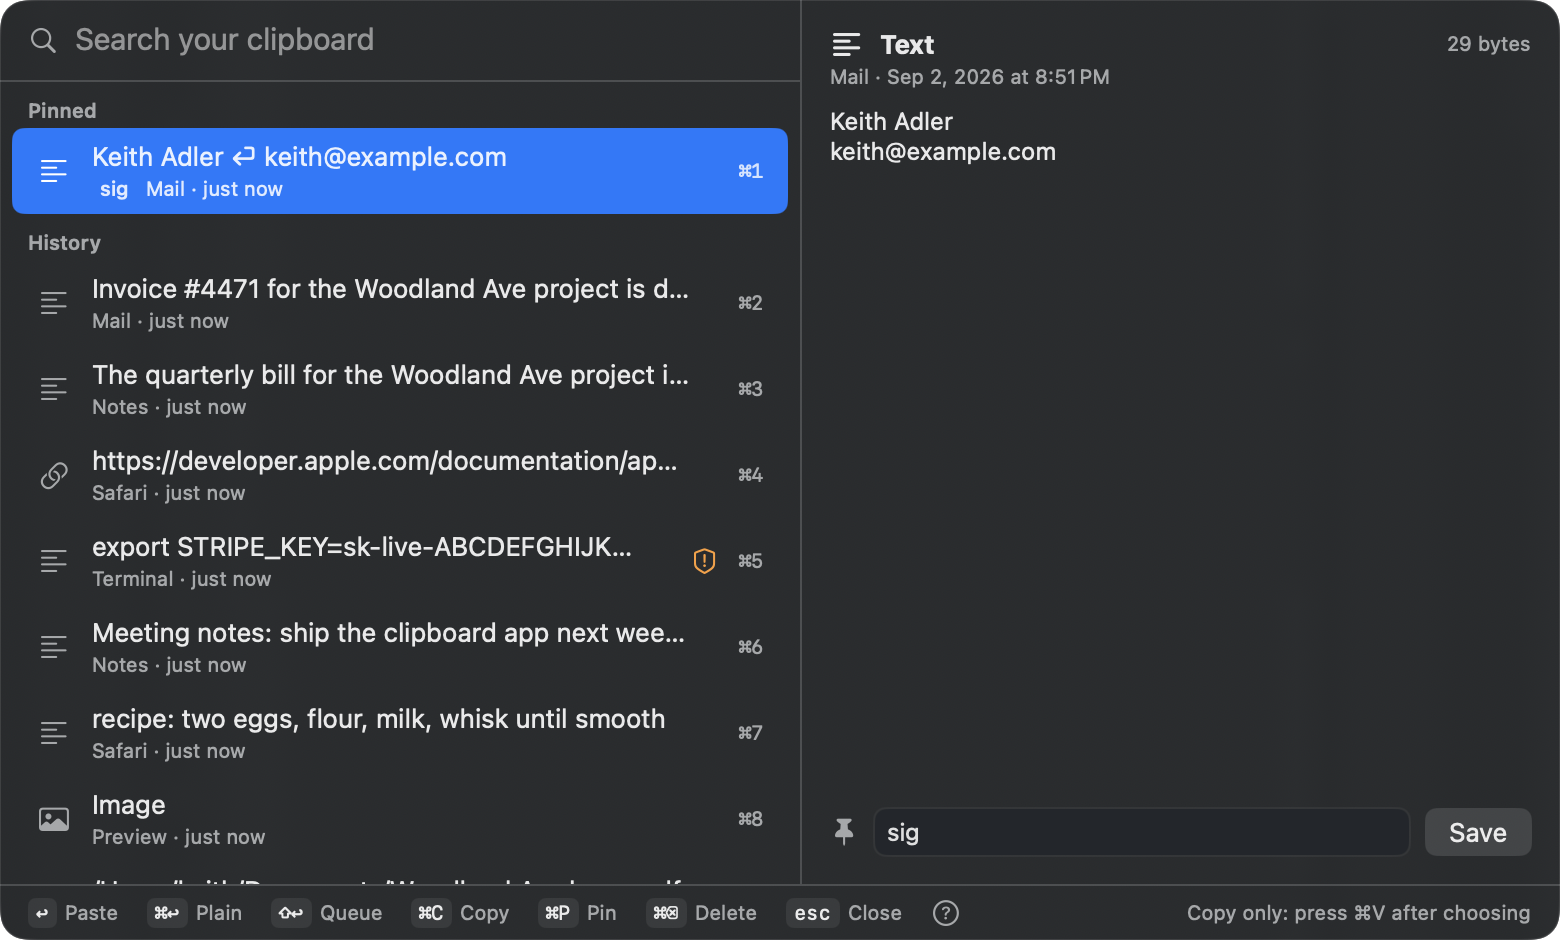
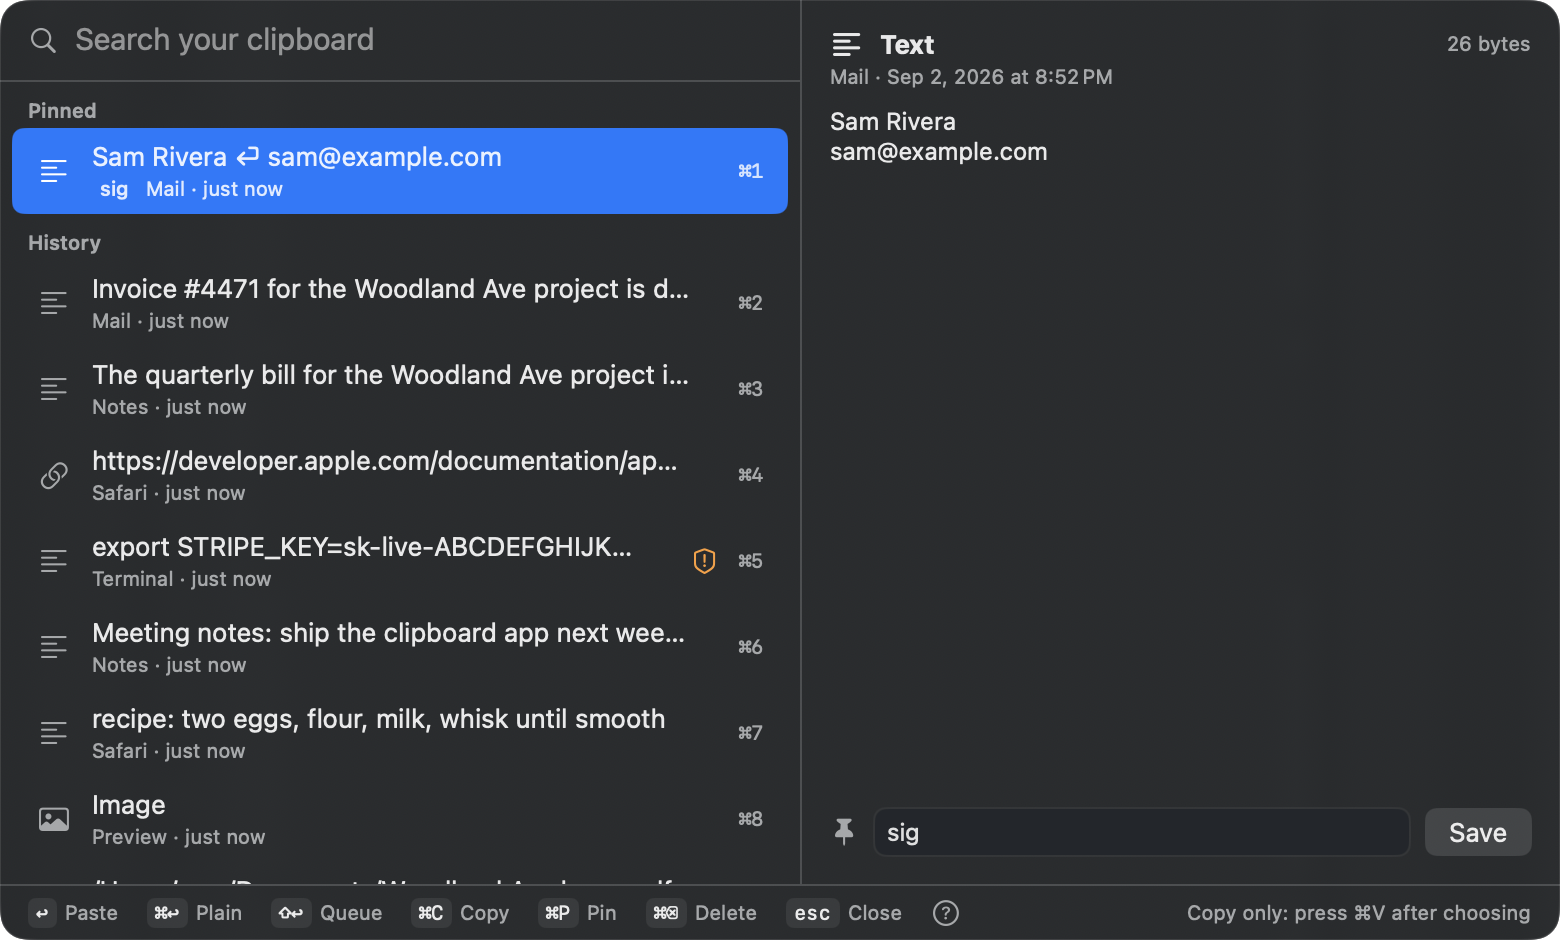
Screenshots: neutral demo persona

Changed region(s): [[0.0615, 0.1543, 0.3385, 0.1851], [0.5231, 0.1234, 0.6769, 0.1851], [0.6769, 0.0617, 0.7077, 0.0926]]

diff --git a/Sources/ClipMac/Screenshots.swift b/Sources/ClipMac/Screenshots.swift
@@ -112,10 +112,10 @@ enum Screenshots {
         func text(_ t: String, app: String = "com.apple.Notes", name: String = "Notes", kind: ItemKind = .text) {
             _ = s.insert(Capture(kind: kind, plain: t, blobData: nil, blobType: nil, sourceBundleID: app, sourceName: name, size: t.utf8.count))
         }
-        text("Keith Adler\nkeith@example.com", app: "com.apple.mail", name: "Mail")
+        text("Sam Rivera\nsam@example.com", app: "com.apple.mail", name: "Mail")
         let sig = s.item(atPosition: 1)!
         s.setPinned(sig.id, true, keyword: "sig")
-        text("/Users/keith/Documents/Woodland Ave lease.pdf", app: "com.apple.finder", name: "Finder", kind: .file)
+        text("/Users/sam/Documents/Woodland Ave lease.pdf", app: "com.apple.finder", name: "Finder", kind: .file)
         let img = NSImage(size: NSSize(width: 320, height: 200))
         img.lockFocus()
         NSGradient(colors: [NSColor.systemTeal, NSColor.systemIndigo])!.draw(in: NSRect(x: 0, y: 0, width: 320, height: 200), angle: 30)
